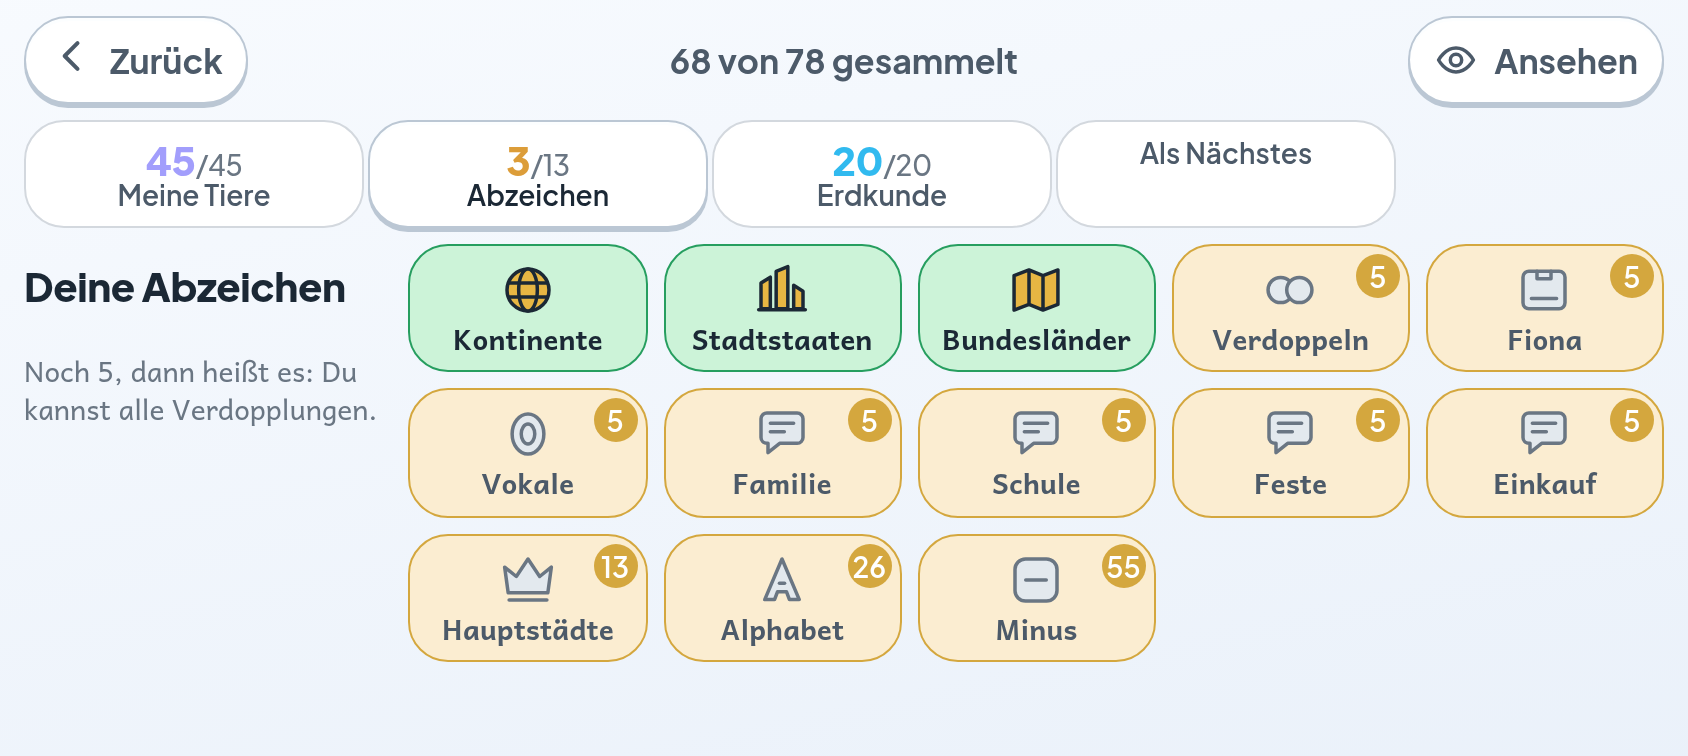
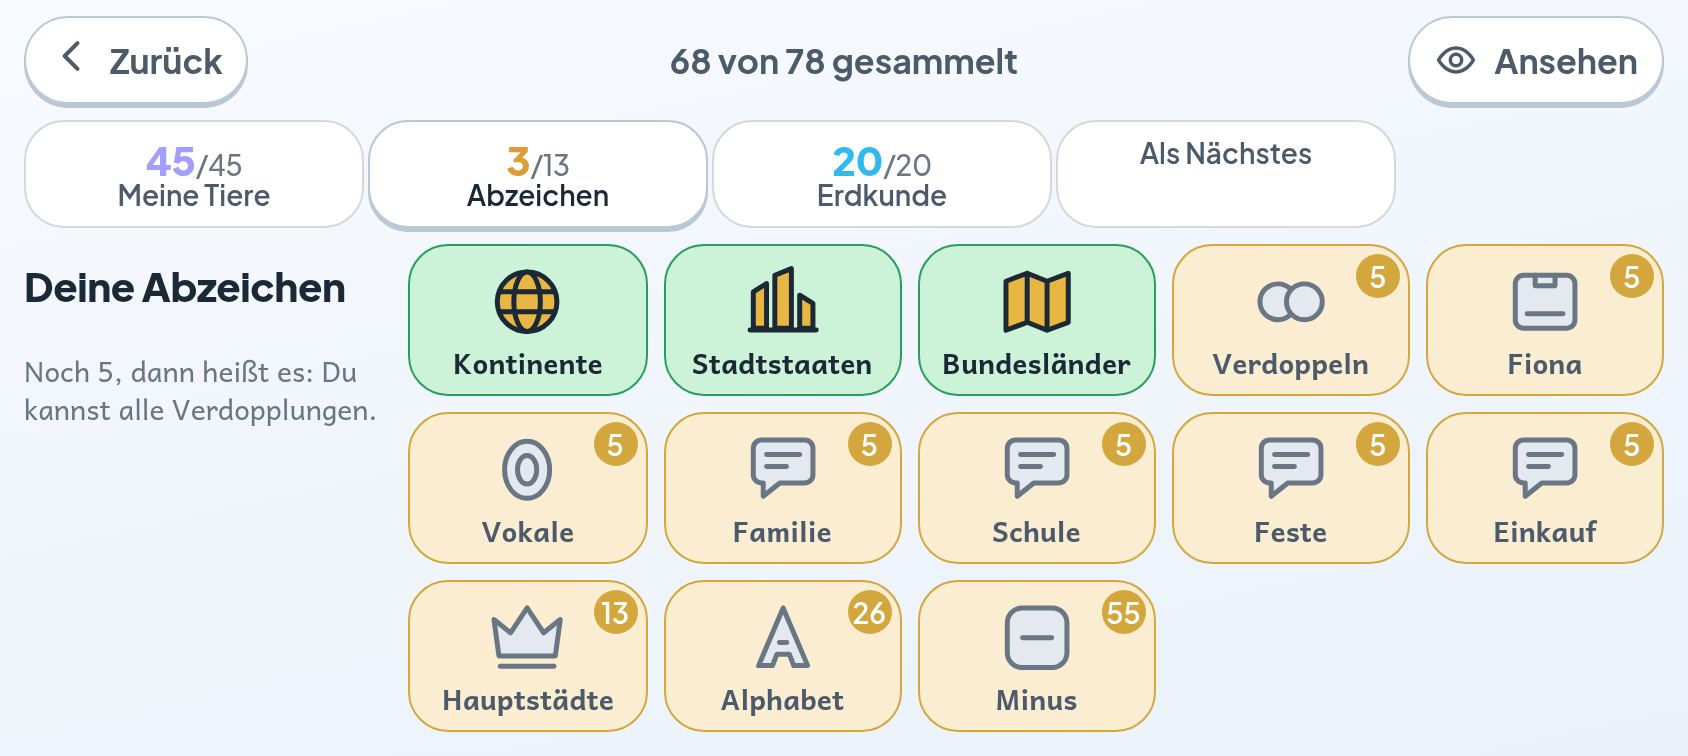
Die Abzeichenwand zieht nach - die letzte Ausnahme faellt
19 → 55 % Bildanteil. Die Wand stand mit 81 % Fuellung fast ganz da, und
darin klebten 44 Punkte Zeichen unter einem gleich grossen Namen. Ein
Abzeichen ist ein ZEICHEN mit einer Unterschrift, nicht eine
Unterschrift mit einem Zeichen daneben.

Damit haelt `tonleiter` den Bildanteil ohne Ausnahme fuer eine SEITE.
Was bleibt, ist eine Ausnahme fuer einen STAND: `naechstes` steht bei
0 %, weil die Vorschau in diesem gestellten Stand nur Text zeigt -
dieselbe Seite traegt anderswo eine Albumkarte. Sie hat nichts, was
wachsen koennte.

Angesehen: die Wand vorher und nachher.

Claude-Session: https://claude.ai/code/session_01GwecUQxeRqJxKHLkGsVrjv

Changed region(s): [[0.2156, 0.3347, 0.9858, 0.9735]]

diff --git a/prototyp/vorlage.html b/prototyp/vorlage.html
@@ -2935,10 +2935,19 @@ body[data-zieht] .lupenknoepfe{pointer-events:none}
    * die Aufkleber dabei zu klein werden, sagt kein Geschmack, sondern
    * `beruehrung`: unter 44 Punkten ist ein Griff keiner mehr. */
   .buchraster > .kleber,
-  .buchraster > .raumgitter{min-height:100%;align-content:stretch;
+  .buchraster > .raumgitter,
+  .buchraster > .abzeichen{min-height:100%;align-content:stretch;
     grid-auto-rows:1fr}
   .buchraster > .kleber .aufkleber,
-  .buchraster > .raumgitter .raumzelle{min-height:0}
+  .buchraster > .raumgitter .raumzelle,
+  .buchraster > .abzeichen .abz{min-height:0}
+  /* Das Abzeichen war die letzte Ausnahme im Bildanteil-Tor: 81 %
+     Fuellung bei 19 % Bild - die Wand stand fast ganz da, und darin
+     klebten 44 Punkte Zeichen unter einem gleich grossen Namen. Ein
+     Abzeichen ist ein ZEICHEN mit einer Unterschrift, nicht eine
+     Unterschrift mit einem Zeichen daneben. */
+  .buchraster > .abzeichen .abz > svg{width:100%;height:auto;
+    flex:1 1 0;min-height:0}
   /* `flex:1 1 0` und BREITE, nicht `flex:1 1 auto`: ein SVG mit
      Grundlage „auto" bringt seine eigene Hoehe mit, und die kommt aus
      dem Seitenverhaeltnis mal der vollen Breite - beim Umriss darunter
